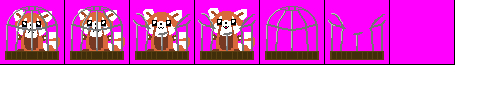
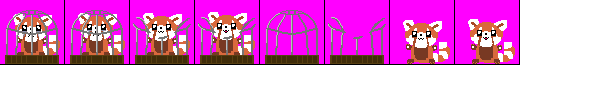
Skunk Sprite

diff --git a/src/Enemies/BugEnemy.java b/src/Enemies/BugEnemy.java
@@ -30,7 +30,7 @@ public class BugEnemy extends Enemy {
     private int health = 25;
 
     public BugEnemy(Point location, Direction facingDirection) {
-        super(location.x, location.y, new SpriteSheet(ImageLoader.load("Skunk.png"), 24, 15), "WALK_LEFT");
+        super(location.x, location.y, new SpriteSheet(ImageLoader.load("Skunk.png"), 100, 64), "WALK_LEFT");
         this.startFacingDirection = facingDirection;
         this.initialize();
     }
@@ -91,11 +91,18 @@ public class BugEnemy extends Enemy {
             }
         }
 
-        // System.out.println(isDead());
         if (player.getX() >= getX()) {
             if (isHurt()) {
-                moveAmountX = -25;
-                System.out.println("right");
+                if (facingDirection == Direction.RIGHT) {
+                    currentAnimationName = "HURT_WALK_RIGHT";
+                } else {
+                    currentAnimationName = "HURT_WALK_LEFT";
+                }
+                moveAmountX = -15;
+                if (movementSpeed < 2) {
+                    movementSpeed += movementSpeed + 0.1;
+                }
+                // System.out.println("right");
                 hurt = false;
             }
             // System.out.println("right");
@@ -103,14 +110,24 @@ public class BugEnemy extends Enemy {
 
         if (player.getX() <= getX()) {
             if (isHurt()) {
-                moveAmountX = 25;
-                System.out.println("left");
+                if (facingDirection == Direction.RIGHT) {
+                    currentAnimationName = "HURT_WALK_RIGHT";
+                } else {
+                    currentAnimationName = "HURT_WALK_LEFT";
+                }
+                moveAmountX = 15;
+                if (movementSpeed < 2) {
+                    movementSpeed += movementSpeed + 0.1;
+                }
+                // System.out.println("left");
                 hurt = false;
             }
             // System.out.println("left");
         }
 
         // move bug
+
+        
         
         moveYHandleCollision(moveAmountY);
         moveXHandleCollision(moveAmountX);
@@ -126,9 +143,11 @@ public class BugEnemy extends Enemy {
             if (direction == Direction.RIGHT) {
                 facingDirection = Direction.LEFT;
                 currentAnimationName = "WALK_LEFT";
+                movementSpeed = 1f;
             } else {
                 facingDirection = Direction.RIGHT;
                 currentAnimationName = "WALK_RIGHT";
+                movementSpeed = 1f;
             }
         }
     }
@@ -151,25 +170,85 @@ public class BugEnemy extends Enemy {
         return new HashMap<String, Frame[]>() {{
             put("WALK_LEFT", new Frame[] {
                     new FrameBuilder(spriteSheet.getSprite(0, 0), 8)
-                            .withScale(3)
-                            .withBounds(2, 4, 20, 10)
+                            .withScale(1)
+                            .withBounds(2, 4, 90, 56)
                             .build(),
                     new FrameBuilder(spriteSheet.getSprite(0, 1), 8)
-                            .withScale(3)
-                            .withBounds(2, 4, 20, 10)
+                            .withScale(1)
+                            .withBounds(2, 4, 90, 56)
+                            .build(),
+                    new FrameBuilder(spriteSheet.getSprite(0, 0), 8)
+                            .withScale(1)
+                            .withBounds(2, 4, 90, 56)
+                            .build(),
+                    new FrameBuilder(spriteSheet.getSprite(0, 2), 8)
+                            .withScale(1)
+                            .withBounds(2, 4, 90, 56)
                             .build()
             });
 
             put("WALK_RIGHT", new Frame[] {
                     new FrameBuilder(spriteSheet.getSprite(0, 0), 8)
-                            .withScale(3)
+                            .withScale(1)
                             .withImageEffect(ImageEffect.FLIP_HORIZONTAL)
-                            .withBounds(2, 4, 20, 10)
+                            .withBounds(2, 4, 90, 56)
                             .build(),
                     new FrameBuilder(spriteSheet.getSprite(0, 1), 8)
-                            .withScale(3)
+                            .withScale(1)
                             .withImageEffect(ImageEffect.FLIP_HORIZONTAL)
-                            .withBounds(2, 4, 20, 10)
+                            .withBounds(2, 4, 90, 56)
+                            .build(),
+                    new FrameBuilder(spriteSheet.getSprite(0, 0), 8)
+                            .withScale(1)
+                            .withImageEffect(ImageEffect.FLIP_HORIZONTAL)
+                            .withBounds(2, 4, 90, 56)
+                            .build(),
+                    new FrameBuilder(spriteSheet.getSprite(0, 2), 8)
+                            .withScale(1)
+                            .withImageEffect(ImageEffect.FLIP_HORIZONTAL)
+                            .withBounds(2, 4, 90, 56)
+                            .build()
+            });
+
+            put("HURT_WALK_LEFT", new Frame[] {
+                    new FrameBuilder(spriteSheet.getSprite(1, 0), 8)
+                            .withScale(1)
+                            .withBounds(2, 4, 90, 56)
+                            .build(),
+                    new FrameBuilder(spriteSheet.getSprite(1, 1), 8)
+                            .withScale(1)
+                            .withBounds(2, 4, 90, 56)
+                            .build(),
+                    new FrameBuilder(spriteSheet.getSprite(1, 0), 8)
+                            .withScale(1)
+                            .withBounds(2, 4, 90, 56)
+                            .build(),
+                    new FrameBuilder(spriteSheet.getSprite(1, 2), 8)
+                            .withScale(1)
+                            .withBounds(2, 4, 90, 56)
+                            .build()
+            });
+
+            put("HURT_WALK_RIGHT", new Frame[] {
+                    new FrameBuilder(spriteSheet.getSprite(1, 0), 8)
+                            .withScale(1)
+                            .withImageEffect(ImageEffect.FLIP_HORIZONTAL)
+                            .withBounds(2, 4, 90, 56)
+                            .build(),
+                    new FrameBuilder(spriteSheet.getSprite(1, 1), 8)
+                            .withScale(1)
+                            .withImageEffect(ImageEffect.FLIP_HORIZONTAL)
+                            .withBounds(2, 4, 90, 56)
+                            .build(),
+                    new FrameBuilder(spriteSheet.getSprite(1, 0), 8)
+                            .withScale(1)
+                            .withImageEffect(ImageEffect.FLIP_HORIZONTAL)
+                            .withBounds(2, 4, 90, 56)
+                            .build(),
+                    new FrameBuilder(spriteSheet.getSprite(1, 2), 8)
+                            .withScale(1)
+                            .withImageEffect(ImageEffect.FLIP_HORIZONTAL)
+                            .withBounds(2, 4, 90, 56)
                             .build()
             });
         }};

diff --git a/src/EnhancedMapTiles/BackToLobby.java b/src/EnhancedMapTiles/BackToLobby.java
@@ -16,7 +16,7 @@ public class BackToLobby extends EnhancedMapTile{
     private int triggerCode = 0;
 
     public BackToLobby(Point location){
-        super(location.x, location.y, new SpriteSheet(ImageLoader.load("GoldBox.png"), 16, 16), TileType.PASSABLE);
+        super(location.x, location.y, new SpriteSheet(ImageLoader.load("PandaCage.png"), 64, 64), TileType.PASSABLE);
     }
 
     public void update(Player player) {
@@ -37,17 +37,13 @@ public class BackToLobby extends EnhancedMapTile{
         return new HashMap<String, Frame[]>() {{
             put("DEFAULT", new Frame[] {
                 new FrameBuilder(spriteSheet.getSprite(0, 0), 40)
-                        .withScale(3)
+                        .withScale(0.8)
                         .withBounds(1, 1, 14, 14)
                         .build(),
                 new FrameBuilder(spriteSheet.getSprite(0, 1), 40)
-                        .withScale(3)
+                        .withScale(0.8)
                         .withBounds(1, 1, 14, 14)
                         .build(),
-                new FrameBuilder(spriteSheet.getSprite(0, 2), 40)
-                        .withScale(3)
-                        .withBounds(1, 1, 14, 14)
-                        .build()
             });
         }};
     }

diff --git a/src/Builders/FrameBuilder.java b/src/Builders/FrameBuilder.java
@@ -40,9 +40,9 @@ public class FrameBuilder {
         return this;
     }
 
-    public FrameBuilder withScale(float scale) {
+    public FrameBuilder withScale(double scale) {
         if (this.scale >= 0) {
-            this.scale = scale;
+            this.scale = (float) scale;
         } else {
             this.scale = 1;
         }
